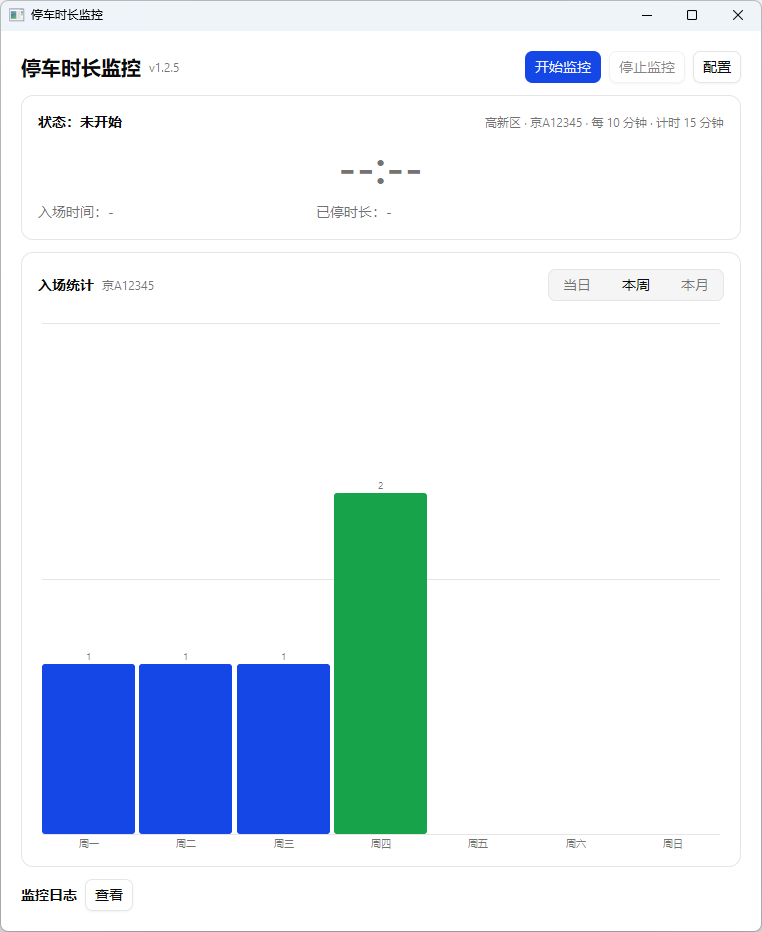
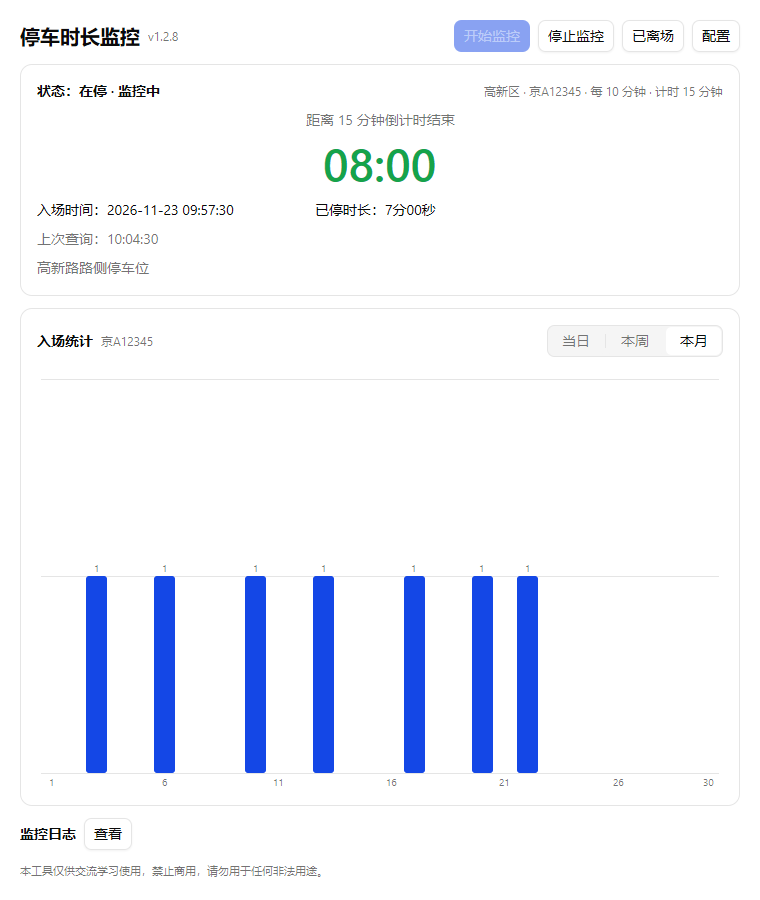
移除未使用的登录接口与缴费文案，首页增加使用声明（v1.2.8）

diff --git a/main.go b/main.go
@@ -38,7 +38,6 @@ var (
 	logViewID        = tree.ID(page, "log-view")
 	logClearID       = tree.ID(page, "log-clear")
 	configBtnID      = tree.ID(page, "config")
-	githubLinkID     = tree.ID(page, "github")
 	configCloseID    = tree.ID(page, "config-close")
 
 	intervalScope = tree.Sub(page, tree.Name("interval-select"))
@@ -277,10 +276,10 @@ func (m *model) onEntryAlert(info EntryInfo) {
 func (m *model) onFreeAlert(a AlertInfo) {
 	var msg string
 	if a.Remaining > 0 {
-		msg = fmt.Sprintf("车牌 %s 已停车 %s（入场时间 %s）。\n预计还剩 %s 达到计时时长上限，请及时挪车或缴费。\n地点：%s",
+		msg = fmt.Sprintf("车牌 %s 已停车 %s（入场时间 %s）。\n预计还剩 %s 达到计时时长上限，请及时挪车。\n地点：%s",
 			a.Carno, formatDuration(a.Elapsed), a.Entry.Format("01-02 15:04"), formatDuration(a.Remaining), a.ParkName)
 	} else {
-		msg = fmt.Sprintf("车牌 %s 已停车 %s（入场时间 %s）。\n%d 分钟计时时长已结束，请及时挪车或缴费。\n地点：%s",
+		msg = fmt.Sprintf("车牌 %s 已停车 %s（入场时间 %s）。\n%d 分钟计时时长已结束，请及时挪车。\n地点：%s",
 			a.Carno, formatDuration(a.Elapsed), a.Entry.Format("01-02 15:04"), a.FreeMinutes, a.ParkName)
 	}
 	m.mu.Lock()
@@ -539,7 +538,7 @@ func (m *model) captureToken() {
 			return
 		}
 		m.showInfo("请在微信中操作一次",
-			"代理已启动。请打开“"+region.MiniName+"”小程序，进入“自助缴费”页面点一次“查询缴费”，工具会自动捕获 Token。\n获取成功或 3 分钟后自动关闭代理。")
+			"代理已启动。请打开“"+region.MiniName+"”小程序，进入停车查询页面点一次“查询”，工具会自动捕获 Token。\n获取成功或 3 分钟后自动关闭代理。")
 	}()
 }
 
@@ -593,12 +592,6 @@ func (m *model) paint(canvas *ui.Canvas, size ui.Size) {
 		f.Row().FillWidth().Items(flex.Center).Gap(8).Children(func() {
 			f.Text("停车时长监控").Bold().FontSize(20)
 			f.Text("v" + appVersion).Muted().FontSize(12).Self(flex.Center)
-			if f.Icon(githubIcon).Size(16, 16).Color(theme.MutedForeground).Self(flex.Center).
-				Hit(githubLinkID, "GitHub 仓库").
-				Hover(flex.Look{}.Color(theme.Foreground)).
-				Clicked() {
-				openURL(githubRepoURL)
-			}
 			f.Spacer()
 			if f.Button(startBtnID, "开始监控").Disabled(running).Clicked() {
 				m.startMonitor()
@@ -606,9 +599,9 @@ func (m *model) paint(canvas *ui.Canvas, size ui.Size) {
 			if f.Button(stopBtnID, "停止监控").Outline().Disabled(!running).Clicked() {
 				m.stopMonitor()
 			}
-			if f.Button(paidBtnID, "已缴费").Outline().Disabled(!st.InPark).Clicked() {
+			if f.Button(paidBtnID, "已离场").Outline().Disabled(!st.InPark).Clicked() {
 				m.markPaid()
-				m.showNotice("已标记缴费，监控状态已重置")
+				m.showNotice("已标记离场，监控状态已重置")
 			}
 			if f.Button(configBtnID, "配置").Outline().Clicked() {
 				m.configOpen = true
@@ -618,6 +611,7 @@ func (m *model) paint(canvas *ui.Canvas, size ui.Size) {
 		m.paintStatus(f, theme, st)
 		m.paintStats(f, theme)
 		m.paintLogBar(f)
+		f.Text("本工具仅供交流学习使用，禁止商用，请勿用于任何非法用途。").FontSize(11).Muted()
 	})
 	m.paintConfigDialog(f, theme)
 	m.paintLogDialog(f, theme, logs)
@@ -1320,7 +1314,7 @@ func (m *model) paintDialog(f *flex.Frame, alert *alertState) {
 			return
 		}
 		if alert.kind == alertFree {
-			if f.Button(dialogPaidID, "已缴费").Outline().Clicked() {
+			if f.Button(dialogPaidID, "已离场").Outline().Clicked() {
 				m.markPaid()
 				m.clearAlert()
 			}

diff --git a/api.go b/api.go
@@ -219,80 +219,6 @@ func (c *Client) Query(ctx context.Context, carno string) (*QueryResult, error) 
 	return result, nil
 }
 
-func (c *Client) SendSms(ctx context.Context, phone string) error {
-	resp, err := c.call(ctx, "app/sendMsg", map[string]any{"phonenum": phone, "msgtype": "L"}, false)
-	if err != nil {
-		return err
-	}
-	if resp.Status != 1 {
-		return fmt.Errorf("发送验证码失败：%s", strings.TrimSpace(resp.Msg))
-	}
-	return nil
-}
-
-type LoginResult struct {
-	Token       string
-	ID          string
-	PhoneNumber string
-	Raw         map[string]any
-}
-
-func (c *Client) LoginBySms(ctx context.Context, phone, code string) (*LoginResult, error) {
-	resp, err := c.call(ctx, "app/appletsBindPhoneNumber", map[string]any{
-		"phoneNumber": phone,
-		"checkCode":   code,
-		"id":          "",
-		"bindType":    2,
-		"mpType":      2,
-	}, false)
-	if err != nil {
-		return nil, err
-	}
-	if resp.Status != 1 {
-		return nil, fmt.Errorf("登录失败：%s", strings.TrimSpace(resp.Msg))
-	}
-	return parseLogin(resp.Data)
-}
-
-func (c *Client) LoginByPassword(ctx context.Context, phone, password string) (*LoginResult, error) {
-	resp, err := c.call(ctx, "app/login", map[string]any{
-		"phoneNumber": phone,
-		"password":    password,
-		"loginType":   1,
-	}, false)
-	if err != nil {
-		return nil, err
-	}
-	if resp.Status != 1 {
-		return nil, fmt.Errorf("登录失败：%s", strings.TrimSpace(resp.Msg))
-	}
-	return parseLogin(resp.Data)
-}
-
-func parseLogin(raw json.RawMessage) (*LoginResult, error) {
-	if len(raw) == 0 || string(raw) == "null" {
-		return nil, errors.New("登录响应为空")
-	}
-	var m map[string]any
-	if err := json.Unmarshal(raw, &m); err != nil {
-		return nil, fmt.Errorf("登录响应解析失败: %w", err)
-	}
-	result := &LoginResult{Raw: m}
-	if v, ok := m["token"].(string); ok {
-		result.Token = v
-	}
-	if v, ok := m["id"]; ok && v != nil {
-		result.ID = fmt.Sprint(v)
-	}
-	if v, ok := m["phoneNumber"].(string); ok {
-		result.PhoneNumber = v
-	}
-	if result.Token == "" {
-		return result, errors.New("登录响应中没有 token 字段，账号可能还未注册微信")
-	}
-	return result, nil
-}
-
 func describeResult(r *QueryResult) string {
 	if r == nil {
 		return ""

diff --git a/monitor.go b/monitor.go
@@ -248,7 +248,7 @@ func (m *Monitor) applyParkingInfo(info ParkingFeeInfo, start time.Time) {
 	ignored := m.ignoredSerial
 	m.mu.Unlock()
 	if info.Serialno != "" && info.Serialno == ignored {
-		m.applyNoRecord(start, "该停车记录已标记为已缴费出场")
+		m.applyNoRecord(start, "该停车记录已标记为已离场")
 		return
 	}
 
@@ -332,7 +332,7 @@ func (m *Monitor) applyNoRecord(at time.Time, detail string) {
 	m.pushStatus()
 }
 
-// MarkPaid 供“已缴费”按钮调用：视为车辆已出场并重置计时状态，
+// MarkPaid 供“已离场”按钮调用：视为车辆已出场并重置计时状态，
 // 同时忽略当前这笔停车记录，避免下一轮轮询又把状态恢复为在停。
 func (m *Monitor) MarkPaid() {
 	m.mu.Lock()
@@ -349,7 +349,7 @@ func (m *Monitor) MarkPaid() {
 	m.elapsed = 0
 	m.remaining = 0
 	m.phase = "已出场"
-	m.detail = "已手动标记缴费，等待下次入场"
+	m.detail = "已手动标记离场，等待下次入场"
 	m.mu.Unlock()
 
 	m.log("已出场，监控状态已重置")

diff --git a/monitor_test.go b/monitor_test.go
@@ -63,7 +63,7 @@ func TestMarkPaidResetsState(t *testing.T) {
 		t.Fatalf("MarkPaid 未重置状态: inPark=%v serial=%q", m.inPark, m.serial)
 	}
 	if m.ignoredSerial != "S1" {
-		t.Fatalf("应忽略已缴费的记录 S1，实际 %q", m.ignoredSerial)
+		t.Fatalf("应忽略已离场的记录 S1，实际 %q", m.ignoredSerial)
 	}
 }
 
@@ -130,11 +130,11 @@ func TestEntryAlertOncePerSerial(t *testing.T) {
 	m.MarkPaid()
 	m.applyParkingInfo(info, now.Add(2*time.Second))
 	if m.inPark {
-		t.Fatal("已缴费记录不应恢复为在停")
+		t.Fatal("已离场记录不应恢复为在停")
 	}
 	select {
 	case <-entries:
-		t.Fatal("已缴费记录不应再次触发入场提醒")
+		t.Fatal("已离场记录不应再次触发入场提醒")
 	case <-time.After(300 * time.Millisecond):
 	}
 

diff --git a/update.go b/update.go
@@ -19,7 +19,7 @@ import (
 )
 
 const (
-	appVersion = "1.2.7"
+	appVersion = "1.2.8"
 	githubRepo = "Miles1994/ParkingMonitor"
 )
 

diff --git a/README.md b/README.md
@@ -2,7 +2,7 @@
 
 > 仅适用于西安市高新区、莲湖区、碑林区的路侧停车位，其他城市或停车场不适用。
 
-一个 Windows 桌面小工具：按设定间隔查询车辆在停状态，在计时时长结束前弹出提醒（弹窗 + 提示音 + 系统通知），方便及时挪车或缴费。
+一个 Windows 桌面小工具：按设定间隔查询车辆在停状态，在计时时长结束前弹出提醒（弹窗 + 提示音 + 系统通知），方便及时挪车。
 
 ![主界面](docs/screenshot-main.png)
 
@@ -15,7 +15,7 @@
 - 入场提醒、计时时长倒计时、到期或提前提醒（同一笔停车只提醒一次）
 - 倒计时提醒方式可选：侧边系统通知（默认）或窗口居中弹出框（自动恢复并置顶窗口）
 - 远程通知可同步到手机：支持 PushPlus（微信）与 ntfy（需在手机 App 订阅同一主题），入场与计时提醒都会推送
-- 提醒弹窗中的“已缴费”：视为车辆出场并重置监控状态
+- 提醒弹窗中的“已离场”：视为车辆出场并重置监控状态
 - 入场统计：按当前车牌展示当日、本周、本月的入场次数柱状图（仅统计监控运行期间发现的入场）
 - Token 自动获取（本地代理 + 本地根证书，仅解密所选地区域名流量）
 - 监控日志可通过“查看”弹窗浏览，并自动落盘保留 7 天；监控期间阻止电脑睡眠
@@ -39,11 +39,11 @@
 ## 使用
 
 1. 解压 `ParkingMonitor.zip`，双击 `ParkingMonitor.exe`。
-2. 点右上角“配置”：选择地区、填写车牌；点“点击获取”，然后在对应地区微信小程序里查询一次缴费，程序会自动捕获 Token。
+2. 点右上角“配置”：选择地区、填写车牌；点“点击获取”，然后在对应地区微信小程序里查询一次停车信息，程序会自动捕获 Token。
 3. 设置查询间隔、计时时长、提前提醒，保存后关闭弹窗。需要手机同步提醒时，在“远程通知”里选 PushPlus（填用户 Token，关注公众号接收）或 ntfy（手机 App 订阅同一个主题）。
 4. 点主界面右上角“开始监控”；监控中可随时“停止监控”。
 
-> 本工具只查询停车信息，不发起缴费、不修改账号数据。
+> 本工具只查询停车信息，不发起任何交易、不修改账号数据。
 
 ## 配置与数据
 
@@ -67,4 +67,4 @@ go build -ldflags "-H windowsgui" -o dist/ParkingMonitor.exe .
 
 ## 免责声明
 
-非官方工具，仅供个人停车提醒使用。接口由第三方停车平台提供，可能随其升级而变化；使用产生的后果由使用者自行承担。
+本工具仅供交流学习使用，禁止商用，请勿用于任何非法用途。非官方工具，仅供个人停车提醒使用。接口由第三方停车平台提供，可能随其升级而变化；使用产生的后果由使用者自行承担。
